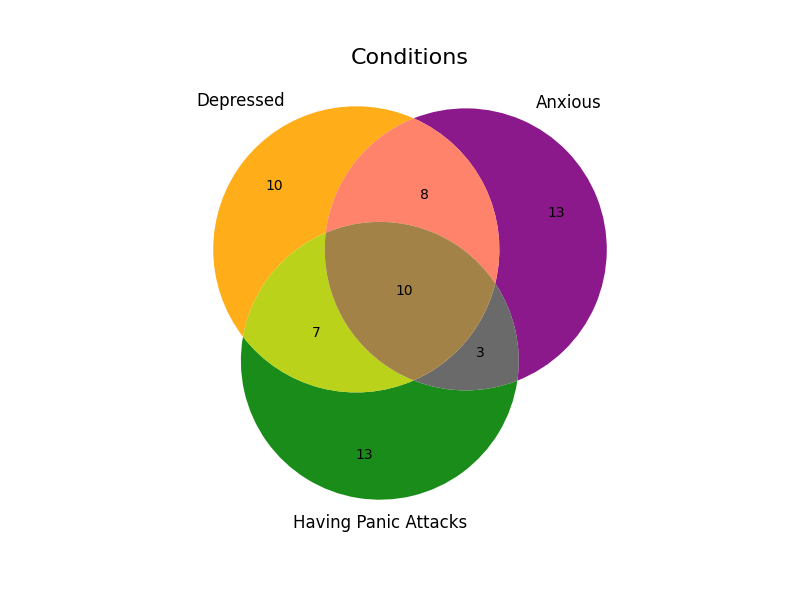
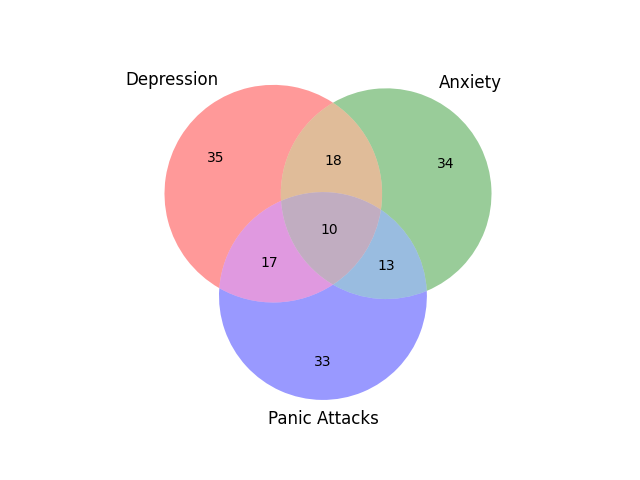
chnages

Changed region(s): [[0.1875, 0.1562, 0.7812, 0.9062], [0.4375, 0.0625, 0.5938, 0.125]]

diff --git a/static/js/main.js b/static/js/main.js
@@ -1,48 +1,88 @@
-// Fetch data from the server
 fetch('/data')
     .then(response => response.json())
     .then(data => {
-        // Venn Diagram Data
-        const venn = data.venn;
+        console.log(data);
 
-        // Bar Chart Data
-        const bar = data.bar;
+        // Create Pie Chart for Male data
+        createPieChart('males-pie-chart', data.pie.male_counts, data.pie.categories);
 
-        // Pie Chart Data
-        const pie = data.pie;
+        // Create Pie Chart for Female data
+        createPieChart('females-pie-chart', data.pie.female_counts, data.pie.categories);
 
-        // Example Bar Chart
-        const svg = d3.select("#visualization2")
-            .append("svg")
-            .attr("width", 500)
-            .attr("height", 300);
-
-        const x = d3.scaleBand()
-            .domain(bar.labels)
-            .range([0, 400])
-            .padding(0.1);
-
-        const y = d3.scaleLinear()
-            .domain([0, d3.max(bar.male.concat(bar.female))])
-            .range([300, 0]);
-
-        svg.selectAll('.bar-male')
-            .data(bar.male)
-            .enter()
-            .append('rect')
-            .attr('x', (d, i) => x(bar.labels[i]))
-            .attr('y', d => y(d))
-            .attr('width', x.bandwidth())
-            .attr('height', d => 300 - y(d))
-            .attr('fill', 'blue');
-
-        svg.selectAll('.bar-female')
-            .data(bar.female)
-            .enter()
-            .append('rect')
-            .attr('x', (d, i) => x(bar.labels[i]) + x.bandwidth() / 2)
-            .attr('y', d => y(d))
-            .attr('width', x.bandwidth() / 2)
-            .attr('height', d => 300 - y(d))
-            .attr('fill', 'orange');
+        // Create Venn Diagram
+        createVennDiagram(data.venn);
     });
+
+function createPieChart(containerId, data, categories) {
+    const width = 400, height = 400;
+    const radius = Math.min(width, height) / 2;
+
+    const svg = d3.select(`#${containerId}`)
+        .append('svg')
+        .attr('width', width)
+        .attr('height', height)
+        .append('g')
+        .attr('transform', `translate(${width / 2}, ${height / 2})`);
+
+    const pie = d3.pie().value(d => d.value);
+    const arc = d3.arc().outerRadius(radius).innerRadius(0);
+
+    const arcData = pie(data.map((value, i) => ({
+        value: value,
+        label: categories[i]
+    })));
+
+    svg.selectAll('path')
+        .data(arcData)
+        .enter()
+        .append('path')
+        .attr('d', arc)
+        .attr('fill', (d, i) => d3.schemeSet3[i]);
+
+    svg.selectAll('text')
+        .data(arcData)
+        .enter()
+        .append('text')
+        .attr('transform', d => `translate(${arc.centroid(d)})`)
+        .attr('dy', '.35em')
+        .style('text-anchor', 'middle')
+        .text(d => `${d.data.label}: ${d.data.value}`);
+}
+
+function createVennDiagram(vennData) {
+    const width = 500, height = 500;
+    const svg = d3.select("#venn-diagram")
+        .append('svg')
+        .attr('width', width)
+        .attr('height', height);
+
+    // Simple Venn diagram for three sets
+    const circles = [
+        { cx: 150, cy: 150, r: 100, fill: "red", label: "Depressed", count: vennData.depressed },
+        { cx: 250, cy: 150, r: 100, fill: "blue", label: "Anxious", count: vennData.anxious },
+        { cx: 200, cy: 250, r: 100, fill: "green", label: "Panicking", count: vennData.panicking }
+    ];
+
+    circles.forEach(circle => {
+        svg.append('circle')
+            .attr('cx', circle.cx)
+            .attr('cy', circle.cy)
+            .attr('r', circle.r)
+            .attr('fill', circle.fill)
+            .attr('opacity', 0.5);
+
+        svg.append('text')
+            .attr('x', circle.cx)
+            .attr('y', circle.cy)
+            .attr('dy', -10)
+            .attr('text-anchor', 'middle')
+            .text(circle.label);
+
+        svg.append('text')
+            .attr('x', circle.cx)
+            .attr('y', circle.cy)
+            .attr('dy', 20)
+            .attr('text-anchor', 'middle')
+            .text(circle.count);
+    });
+}

diff --git a/templates/index.html b/templates/index.html
@@ -3,51 +3,46 @@
 <head>
     <meta charset="UTF-8">
     <meta name="viewport" content="width=device-width, initial-scale=1.0">
-    <title>Student Mental Health</title>
-    <style>
-        body {
-            font-family: Arial, sans-serif;
-            text-align: center;
-            margin: 20px;
-        }
-        h1 {
-            color: #333;
-        }
-        .buttons {
-            margin: 20px 0;
-        }
-        .buttons a {
-            text-decoration: none;
-            background-color: #007BFF;
-            color: white;
-            padding: 10px 20px;
-            margin: 5px;
-            border-radius: 5px;
-            display: inline-block;
-        }
-        .buttons a:hover {
-            background-color: #0056b3;
-        }
-        img {
-            margin-top: 20px;
-            max-width: 100%;
-            height: auto;
-        }
-    </style>
+    <title>Mental Health Data Visualization</title>
+    <link rel="stylesheet" href="{{ url_for('static', filename='css/styles.css') }}">
 </head>
 <body>
-    <h1>Student Mental Health</h1>
-    <div class="buttons">
-        <a href="/">Venn Diagram</a>
-        <a href="/males">Conditions Among Males</a>
-        <a href="/females">Conditions Among Females</a>
+    <h1>Mental Health Conditions Visualization</h1>
+
+    <!-- Button navigation for different visualizations -->
+    <div class="button-container">
+        <button onclick="window.location.href='/'">Venn Diagram</button>
+        <button onclick="window.location.href='/males'">Pie Chart (Males)</button>
+        <button onclick="window.location.href='/females'">Pie Chart (Females)</button>
     </div>
+
+    <hr>
+
+    <!-- Display Venn Diagram -->
     {% if chart_type == "venn" %}
-        <img src="/static/venn_plot.png" alt="Venn Diagram">
-    {% elif chart_type == "males" %}
-        <img src="/static/pie_chart_males.png" alt="Pie Chart - Males">
-    {% elif chart_type == "females" %}
-        <img src="/static/pie_chart_females.png" alt="Pie Chart - Females">
+    <div class="chart-container">
+        <h2>Venn Diagram of Conditions</h2>
+        <div id="venn-diagram"></div>
+    </div>
     {% endif %}
+
+    <!-- Display Pie Chart for Males -->
+    {% if chart_type == "males" %}
+    <div class="chart-container">
+        <h2>Pie Chart for Males</h2>
+        <div id="males-pie-chart"></div>
+    </div>
+    {% endif %}
+
+    <!-- Display Pie Chart for Females -->
+    {% if chart_type == "females" %}
+    <div class="chart-container">
+        <h2>Pie Chart for Females</h2>
+        <div id="females-pie-chart"></div>
+    </div>
+    {% endif %}
+
+    <script src="https://d3js.org/d3.v6.min.js"></script>
+    <script src="{{ url_for('static', filename='js/main.js') }}"></script>
 </body>
 </html>

diff --git a/static/css/style.css b/static/css/style.css
@@ -1,19 +1,64 @@
+/* Basic styling for the page */
 body {
     font-family: Arial, sans-serif;
-    margin: 0;
-    padding: 20px;
-}
-
-.container {
-    width: 80%;
-    margin: auto;
+    margin: 20px;
+    background-color: #f4f4f9;
 }
 
 h1 {
     text-align: center;
-    margin-bottom: 20px;
+    color: #333;
+    font-size: 2.5rem;
 }
 
-#visualization1, #visualization2, #visualization3 {
+h2 {
+    color: #555;
+    text-align: center;
+    font-size: 1.8rem;
     margin-top: 20px;
+}
+
+/* Styling for buttons */
+.button-container {
+    text-align: center;
+    margin: 40px 0;
+}
+
+.button-container button {
+    background-color: #4CAF50; /* Green */
+    border: none;
+    color: white;
+    padding: 15px 30px;
+    text-align: center;
+    text-decoration: none;
+    display: inline-block;
+    font-size: 18px;
+    margin: 10px;
+    cursor: pointer;
+    border-radius: 5px;
+    transition: background-color 0.3s ease;
+}
+
+.button-container button:hover {
+    background-color: #45a049;
+}
+
+/* Styling for the images */
+.chart-container {
+    text-align: center;
+    margin-top: 30px;
+}
+
+.chart-container div {
+    display: inline-block;
+    margin: 20px;
+}
+
+/* Responsive tweaks */
+@media (max-width: 768px) {
+    .button-container button {
+        width: 100%;
+        padding: 12px 0;
+        font-size: 16px;
+    }
 }

diff --git a/app.py b/app.py
@@ -1,7 +1,5 @@
-from flask import Flask, render_template
+from flask import Flask, render_template, jsonify
 import pandas as pd
-import matplotlib.pyplot as plt
-from matplotlib_venn import venn3
 
 app = Flask(__name__)
 
@@ -34,19 +32,6 @@ depressed_panicking = df[(df["Depression"] == 1) & (df["Panic Attacks"] == 1)]
 anxious_panicking = df[(df["Anxiety"] == 1) & (df["Panic Attacks"] == 1)]
 all_three = df[(df["Depression"] == 1) & (df["Anxiety"] == 1) & (df["Panic Attacks"] == 1)]
 
-# Generate Venn Diagram
-def create_venn():
-    plt.figure(figsize=(8, 6))
-    venn3(
-        subsets=[set(depressed.index), set(anxious.index), set(panicking.index)],
-        set_labels=("Depressed", "Anxious", "Having Panic Attacks"),
-        set_colors=("orange", "purple", "green"),
-        alpha=0.9
-    )
-    plt.title("Conditions", fontsize=16)
-    plt.savefig("static/venn_plot.png")
-    plt.close()
-
 # Generate Pie Charts
 def create_pie_charts():
     categories = ['Depressed', 'Anxious', 'Panicking', 'Depressed and Anxious', 'Depressed and Panicking', 'Anxious and Panicking', 'All Three']
@@ -55,34 +40,40 @@ def create_pie_charts():
     male_counts = [len(subset[subset["Gender"] == "Male"]) for subset in subsets]
     female_counts = [len(subset[subset["Gender"] == "Female"]) for subset in subsets]
 
-    # Males
-    plt.figure(figsize=(8, 6))
-    plt.pie(male_counts, labels=categories, autopct='%1.1f%%', startangle=90)
-    plt.title('Conditions Among Males')
-    plt.savefig("static/pie_chart_males.png")
-    plt.close()
-
-    # Females
-    plt.figure(figsize=(8, 6))
-    plt.pie(female_counts, labels=categories, autopct='%1.1f%%', startangle=90)
-    plt.title('Conditions Among Females')
-    plt.savefig("static/pie_chart_females.png")
-    plt.close()
+    return {'male_counts': male_counts, 'female_counts': female_counts, 'categories': categories}
 
 @app.route('/')
 def home():
-    create_venn()
     return render_template('index.html', chart_type="venn")
 
 @app.route('/males')
 def males():
-    create_pie_charts()
     return render_template('index.html', chart_type="males")
 
 @app.route('/females')
 def females():
-    create_pie_charts()
     return render_template('index.html', chart_type="females")
+
+@app.route('/data')
+def get_data():
+    # Get counts for the pie charts
+    pie_data = create_pie_charts()
+    
+    # Prepare data for D3.js
+    venn_data = {
+        'depressed': len(depressed),
+        'anxious': len(anxious),
+        'panicking': len(panicking),
+        'depressed_anxious': len(depressed_anxious),
+        'depressed_panicking': len(depressed_panicking),
+        'anxious_panicking': len(anxious_panicking),
+        'all_three': len(all_three),
+    }
+
+    return jsonify({
+        'venn': venn_data,
+        'pie': pie_data
+    })
 
 if __name__ == '__main__':
     app.run(debug=True)
